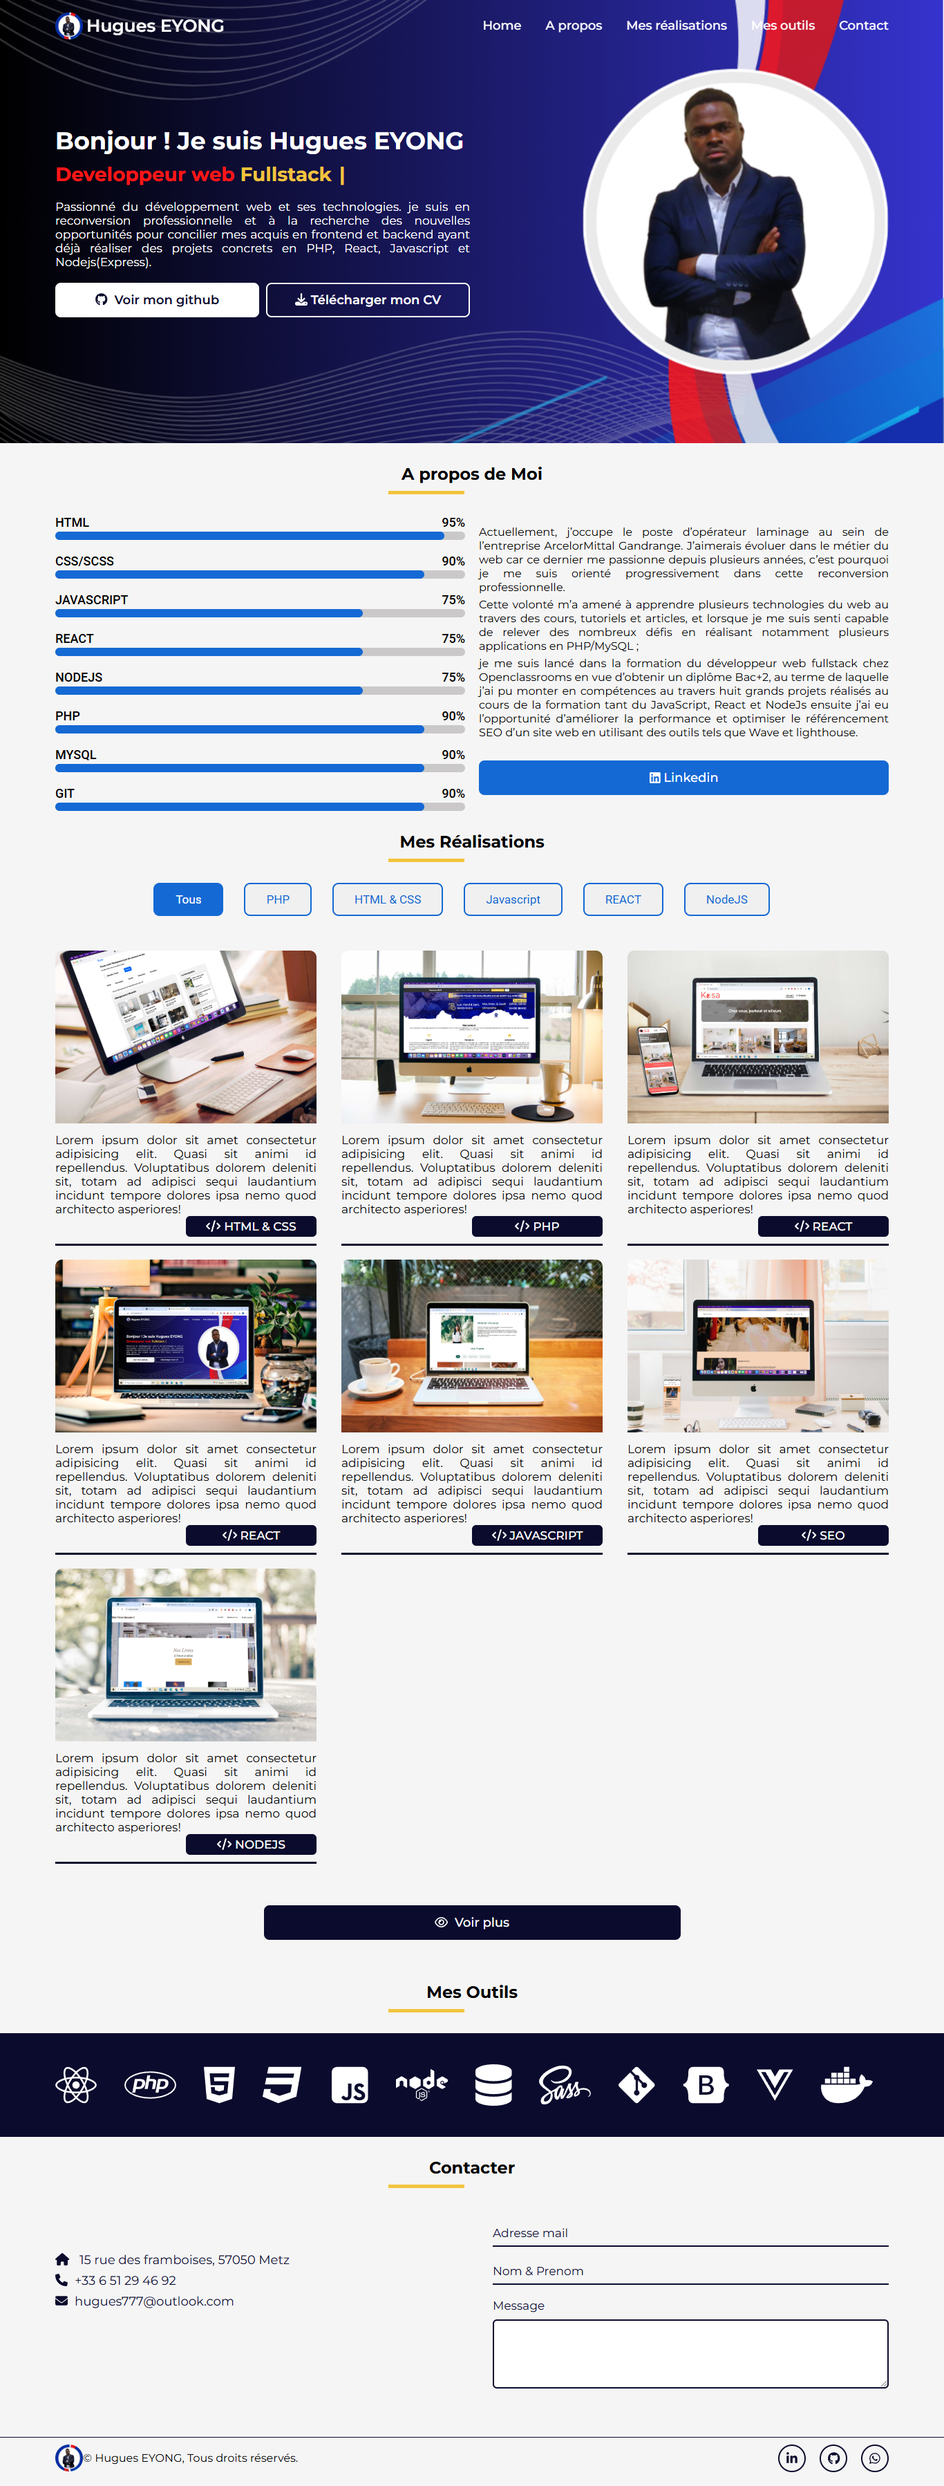
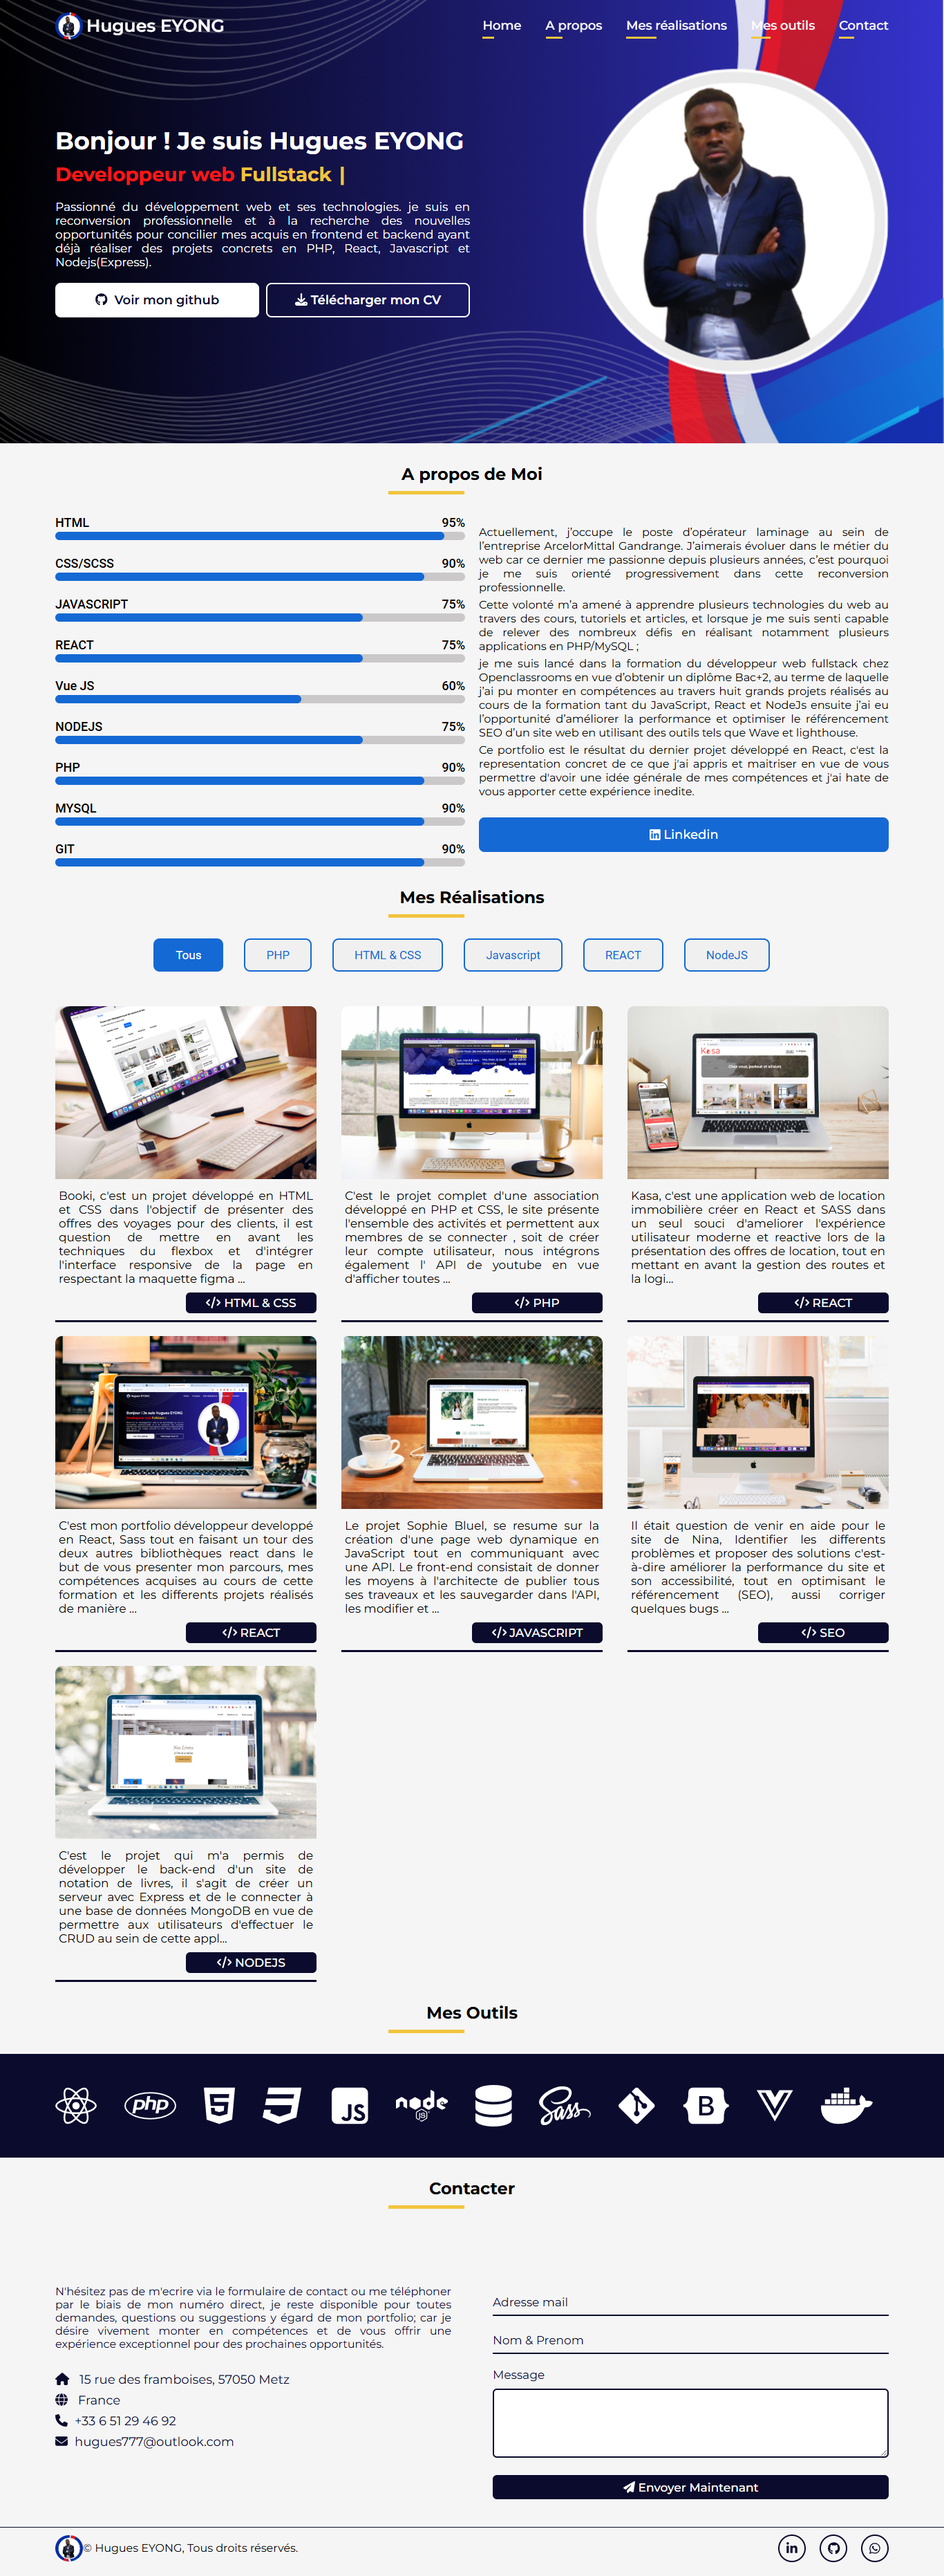
fin du dev

diff --git a/src/components/partials/card/Card.jsx b/src/components/partials/card/Card.jsx
@@ -113,7 +113,7 @@ const filterItems = (categ) =>{
                             </div>
                         </div>
                         <div className="card-text">
-                            <p>{res.description.substring(0, 250)} </p>
+                            <p>{res.description.substring(0, 260)}... </p>
                             <div className='categ'><FontAwesomeIcon icon={faCode} /> {res.categ.toUpperCase()}</div>
                                 
                         </div>
